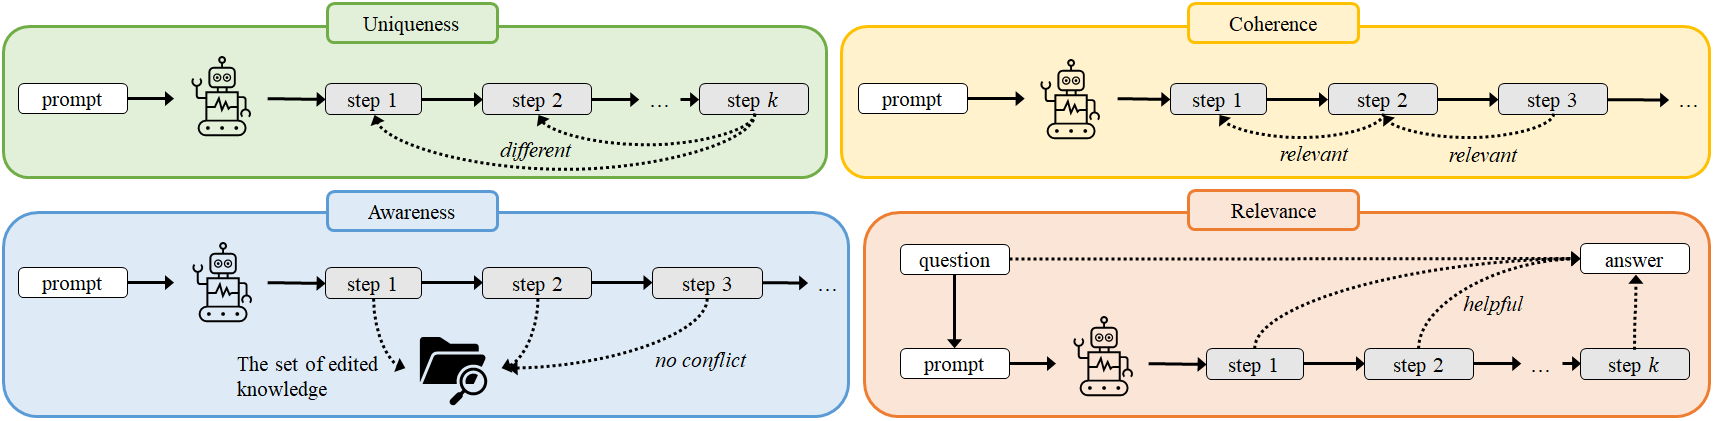
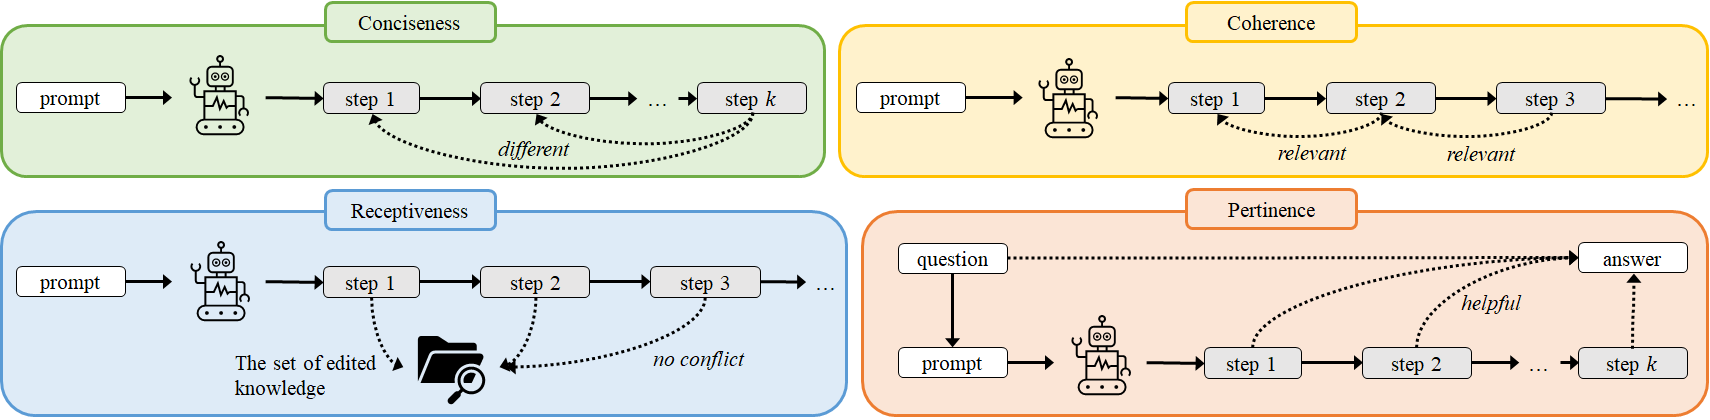
update

diff --git a/index.html b/index.html
@@ -193,13 +193,13 @@
     <!-- Abstract -->
     <div class="columns is-centered has-text-centered">
       <div class="column is-four-fifths">
-        <h2 class="title is-3">Designing Constraints for Better Knowledge Editing</h2>
+        <h2 class="title is-3">Designing Decoding Constraints for Knowledge Editing</h2>
         <div class="content has-text-justified">
           <p>
-            <strong>The central idea of this paper is to view knowledge editing as a problem of decoding with constraints.</strong><br>
+            <strong>The central idea is to view knowledge editing as a problem of decoding with constraints.</strong><br>
             We propose to impose semantic constraints on the LLMs' outputs to represent the desired properties that benefit knowledge editing.
-            Specifically, we propose the following constraints: <strong>Uniqueness</strong> <span>&#128205;</span> ensures the advancements of every reasoning step; <strong>Coherence</strong> <span>&#128062;</span>  guarantees the coherence of adjacent steps; <strong>Awareness</strong> <span>&#128161;</span> guarantees the LLMs' awareness of updated knowledge; <strong>Relevance</strong> <span>&#128588;</span> improves the relevance of reasoning to the input question.
-            Our idea is to directly control the LLMs' outputs to follow the above constraints, in order to improve the LLMs' reasoning with knowledge editing.   
+            Specifically, we propose the following constraints: <strong>Conciseness</strong> <span>&#128205;</span> prevents the redundant loops of reasoning; <strong>Coherence</strong> <span>&#128062;</span>  guarantees the coherence of adjacent steps; <strong>Receptiveness</strong> <span>&#128161;</span> guarantees the LLMs' awareness of new knowledge; <strong>Pertinence</strong> <span>&#128588;</span> improves the relevance of reasoning to the input question.
+            These constraints improve LLMs’ reasoning with new knowledge from different perspectives as a whole.
         </p>
 
         <center><img src="./static/images/fig_10.png" alt="teaser" width="100%"></center>
